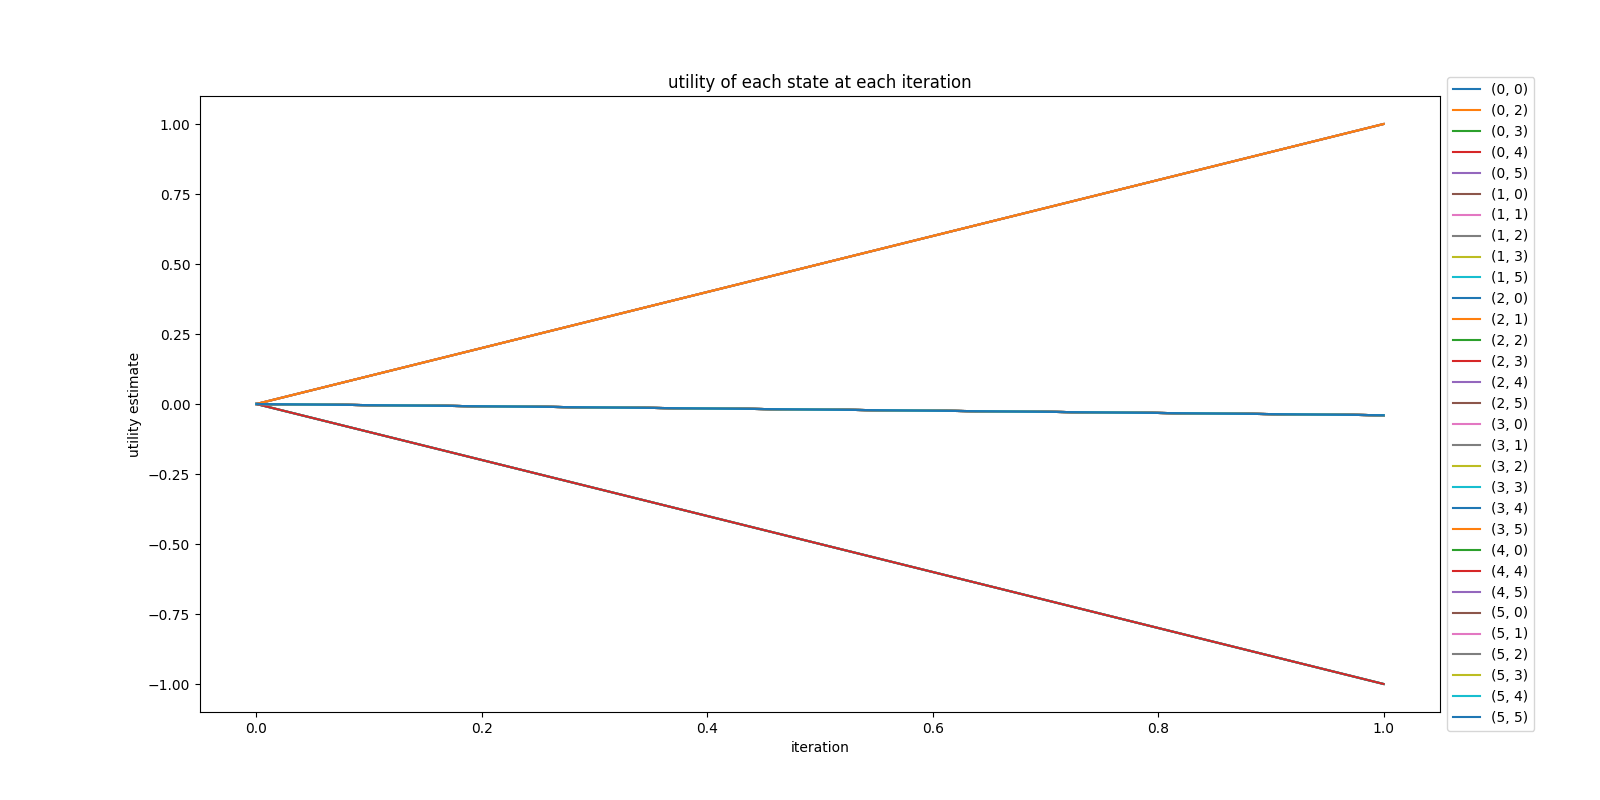
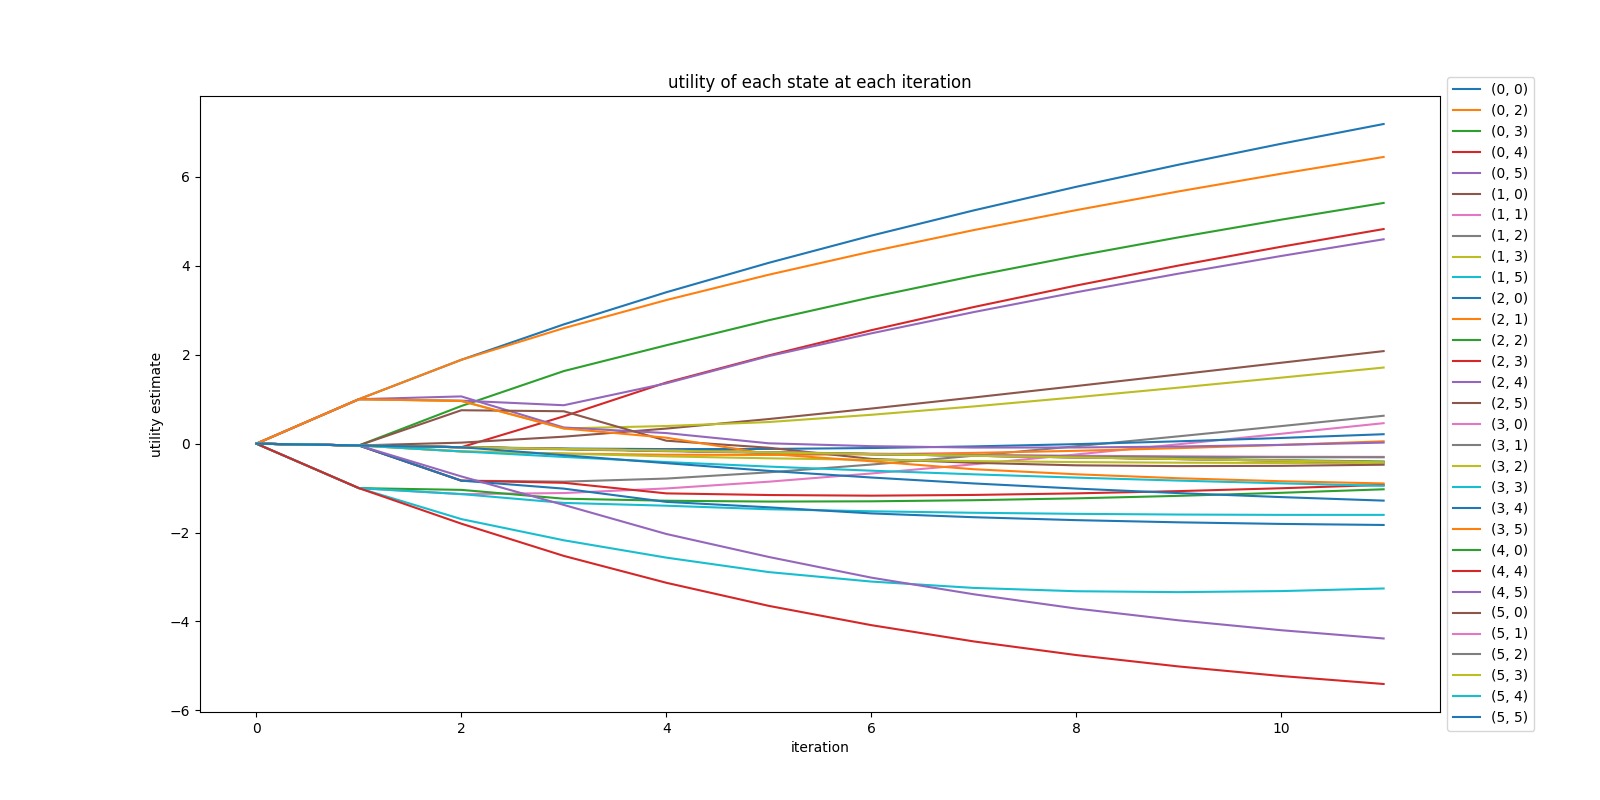
update policy iteration to use k
k - number of times to repeat simplified bellman equation in policy evaluation

diff --git a/assignment_1/algorithms.py b/assignment_1/algorithms.py
@@ -113,7 +113,11 @@ def value_iteration(
 
 # reference: policy iteration algorithm,
 # as shown in figure 17.7 of Artificial Intelligence: A Modern Approach
-def policy_iteration(mdp: MarkovDecisionProcess, verbose=False):
+def policy_iteration(
+    mdp: MarkovDecisionProcess, 
+    num_policy_evaluation: int=1,
+    verbose: bool=False
+):
     """
     params:
     - mdp (MarkovDecisionProcess): an MDP with 
@@ -122,6 +126,7 @@ def policy_iteration(mdp: MarkovDecisionProcess, verbose=False):
         transition model P(s′|s, a), 
         rewards R(s), 
         discount γ
+    - num_policy_evaluation (int): number of times to do policy evaluation (k)
     - verbose (bool): determines whether to print information
 
     return: {
@@ -157,7 +162,12 @@ def policy_iteration(mdp: MarkovDecisionProcess, verbose=False):
     # repeat
     while unchanged:         
         # U ← POLICY-EVALUATION (π, U , mdp)
-        utilities = _policy_evaluation(policy, utilities, mdp)
+        utilities, new_iteration_utilities = _policy_evaluation(
+            mdp, 
+            policy, 
+            utilities, 
+            num_policy_evaluation, 
+        )
 
         policy, unchanged = _policy_improvement(mdp, policy, utilities)
 
@@ -167,7 +177,7 @@ def policy_iteration(mdp: MarkovDecisionProcess, verbose=False):
             print('iteration:', num_iterations)
 
         for state_position in mdp.states:
-            iteration_utilities[state_position].append(utilities[state_position])
+            iteration_utilities[state_position].extend(new_iteration_utilities[state_position])
             
             if verbose:
                 print('at', state_position, '-best action:', policy[state_position])
@@ -227,49 +237,66 @@ def _bellman_equation(
 
 
 def _policy_evaluation(
+    mdp: MarkovDecisionProcess,
     policy: dict, 
     utilities: dict, 
-    mdp: MarkovDecisionProcess
-) -> dict:
+    num_policy_evaluation: int,
+):
     """
     Simplified version of Bellman equation.
 
     params:
-    - policy: {
-        (x, y): best action to take at this state (MazeAction)
-    }
-    - utilities: {
-        (x, y): utility value (float)
-    }
     - mdp (MarkovDecisionProcess): an MDP with 
         states S, 
         actions A(s), 
         transition model P(s′|s, a), 
         rewards R(s), 
         discount γ
-
-    return: {
-        (x, y): updated utility value (float)
+    - policy: {
+        (x, y): best action to take at this state (MazeAction)
     }
+    - utilities: {
+        (x, y): utility value (float)
+    }
+    - num_policy_evaluation (int): number of times to do policy evaluation (k)
+
+    return: (
+        { (x, y): updated utility value (float) },
+        { (x, y): [utility for each iteration (float)] }
+    )
     """
-    updated_utilities = {}
+    current_utilities, updated_utilities = {}, {}
+    new_iteration_utilities = {}
 
-    # for each state s in S do
     for state_position in mdp.states:
-        reward = mdp.reward_function(state_position)
+        # U_i ← U
+        current_utilities[state_position] = utilities[state_position]
+        new_iteration_utilities[state_position] = []
 
-        # ∑s′P (s'|s, π_i(s)) U_i(s')
-        expected_utility = _get_expected_utility(
-            mdp,
-            state_position,
-            policy[state_position],
-            utilities
-        )
+    # for i in range(k)
+    for _ in range(num_policy_evaluation):
+        # for each state s in S do
+        for state_position in mdp.states:
+            reward = mdp.reward_function(state_position)
 
-        # U_i+1(s) ← R(s) + γ ∑s′P (s'|s, π_i(s)) U_i(s')
-        updated_utilities[state_position] = reward + mdp.discount * expected_utility
+            # ∑s′P (s'|s, π_i(s)) U_i(s')
+            expected_utility = _get_expected_utility(
+                mdp,
+                state_position,
+                policy[state_position],
+                current_utilities
+            )
 
-    return updated_utilities
+            # U_i+1(s) ← R(s) + γ ∑s′P (s'|s, π_i(s)) U_i(s')
+            updated_utilities[state_position] = reward + mdp.discount * expected_utility
+
+        # U_i ← U_i+1
+        for state_position in mdp.states:
+            current_utilities[state_position] = updated_utilities[state_position]
+            new_iteration_utilities[state_position].append(current_utilities[state_position])
+            
+
+    return (current_utilities, new_iteration_utilities)
 
 
 def _policy_improvement(

diff --git a/assignment_1.py b/assignment_1.py
@@ -37,7 +37,7 @@ def solve_MDP():
         starting_point=STARTING_POINT,
         discount_factor=0.95
     )
-    result = value_iteration(maze, 1.4)
+    result = value_iteration(maze, max_error=1.4)
 
     _show_maze_result(maze, result, 'approximate_reference_utilities_result.txt')
 
@@ -54,7 +54,7 @@ def solve_MDP():
         starting_point=STARTING_POINT,
         discount_factor=DISCOUNT_FACTOR
     )
-    result = policy_iteration(maze)
+    result = policy_iteration(maze, num_policy_evaluation=11)
     
     _show_maze_result(maze, result, 'policy_iteration_result.txt')
 
